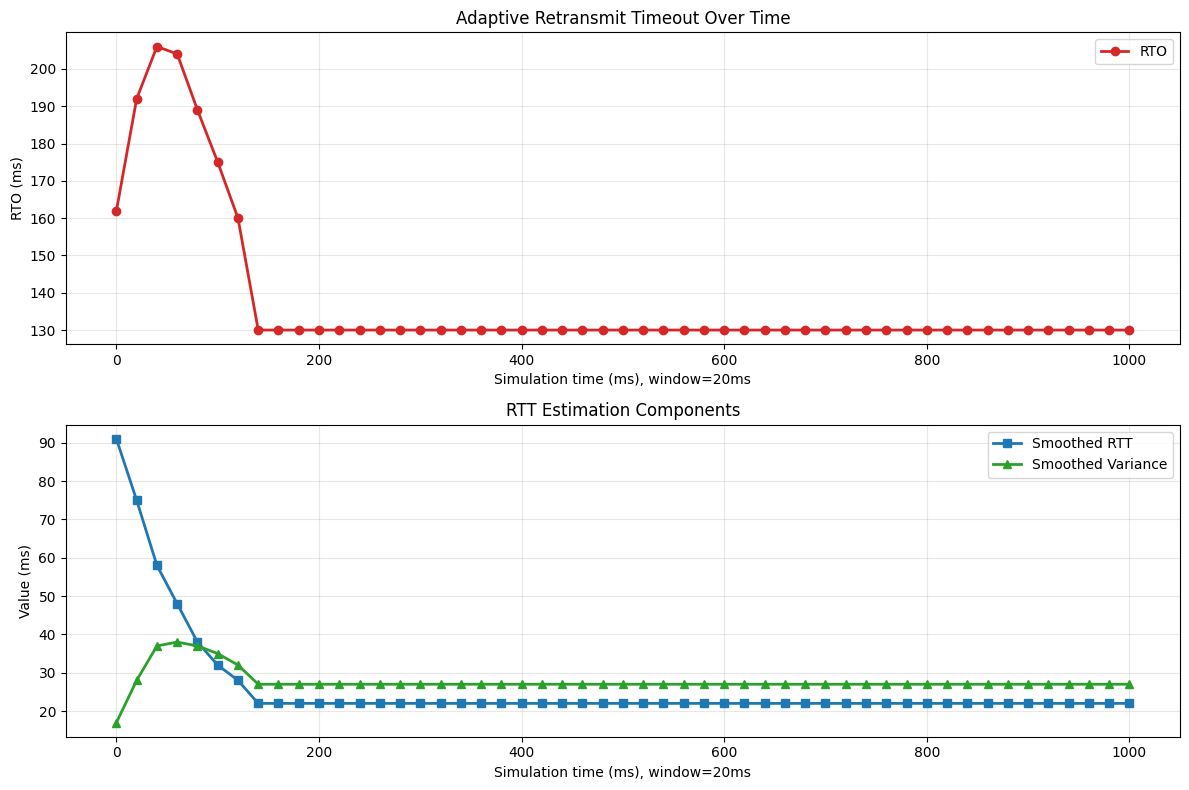
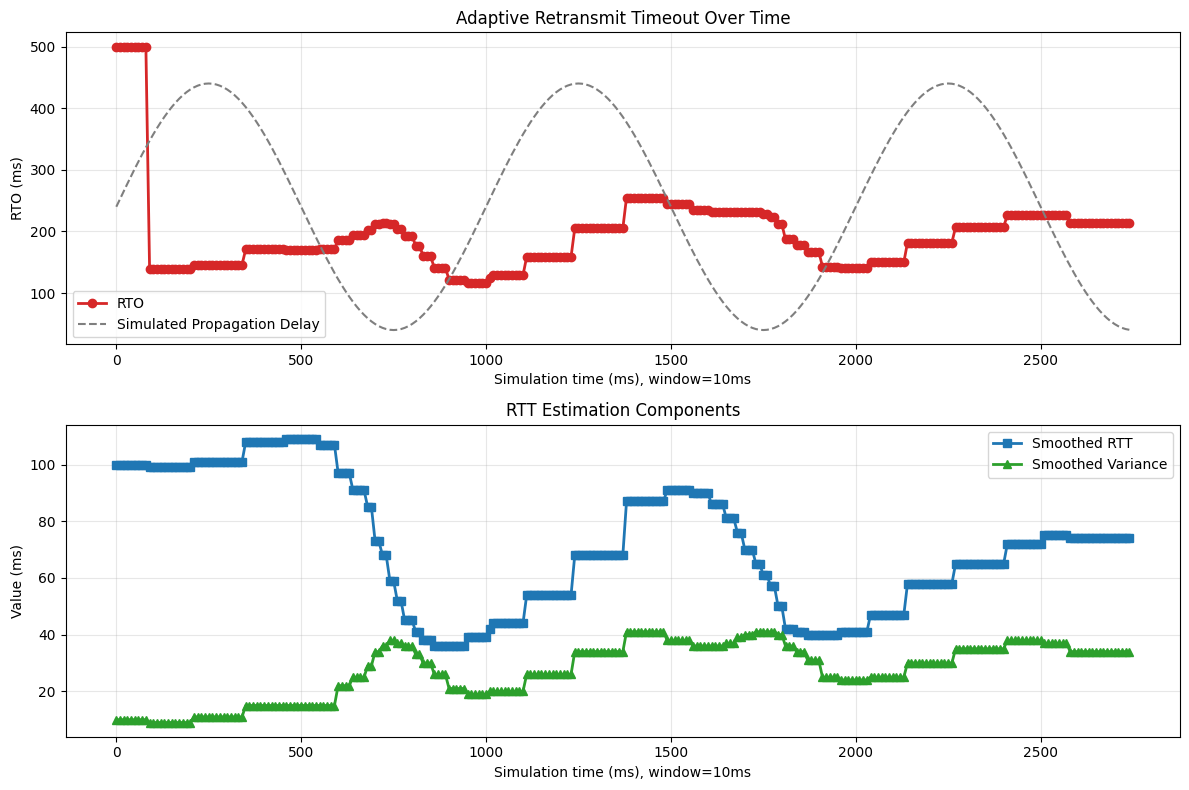
propagation delay function, plotted delay function

diff --git a/protocol/adaptive_timeout/example_entry.py b/protocol/adaptive_timeout/example_entry.py
@@ -1,6 +1,7 @@
 from __future__ import annotations
 
 from pathlib import Path
+import numpy as np
 import sys
 
 PROJECT_ROOT = Path(__file__).resolve().parents[2]
@@ -29,10 +30,34 @@ def main():
         b"This should be reconstructed exactly at the client."
         b"0000000000000000000000000000000000000000000000000000"
         b"0000000000000000000000000000000000000000000000000000"
+                b"Adaptive-timeout SACK demo payload. "
+        b"This should be reconstructed exactly at the client."
+        b"0000000000000000000000000000000000000000000000000000"
+        b"0000000000000000000000000000000000000000000000000000"
+                b"Adaptive-timeout SACK demo payload. "
+        b"This should be reconstructed exactly at the client."
+        b"0000000000000000000000000000000000000000000000000000"
+        b"0000000000000000000000000000000000000000000000000000"
+                b"Adaptive-timeout SACK demo payload. "
+        b"This should be reconstructed exactly at the client."
+        b"0000000000000000000000000000000000000000000000000000"
+        b"0000000000000000000000000000000000000000000000000000"
+                b"Adaptive-timeout SACK demo payload. "
+        b"This should be reconstructed exactly at the client."
+        b"0000000000000000000000000000000000000000000000000000"
+        b"0000000000000000000000000000000000000000000000000000"
+                b"Adaptive-timeout SACK demo payload. "
+        b"This should be reconstructed exactly at the client."
+        b"0000000000000000000000000000000000000000000000000000"
+        b"0000000000000000000000000000000000000000000000000000"
+                b"Adaptive-timeout SACK demo payload. "
+        b"This should be reconstructed exactly at the client."
+        b"0000000000000000000000000000000000000000000000000000"
+        b"0000000000000000000000000000000000000000000000000000"
     )
 
     seq_space = 1001
-    snapshot_interval = 20
+    snapshot_interval = 10
 
     sim = NetworkSim(seed=9, logging=False, track_analytics=True, snapshot_interval=snapshot_interval)
     network = Network(sim)
@@ -46,7 +71,7 @@ def main():
         retransmit_timeout=1000,
         seq_space=seq_space,
         min_rto=10,
-        max_rto=10000,
+        max_rto=500,
     )
     client = ATClient(
         name=2,
@@ -64,7 +89,8 @@ def main():
         propagation_delay=5,
         delay_variance=0,
         error_rate=0,
-        max_queue_length=100
+        max_queue_length=100,
+        propagation_delay_fn=lambda x: np.sin(x*2*np.pi*(1/1000))*30+ 40,
     )
     network.add_channel(channel)
     channel.add_node(server)

diff --git a/src/channel.py b/src/channel.py
@@ -2,7 +2,7 @@
 from __future__ import annotations
 
 from collections import deque
-from typing import TYPE_CHECKING
+from typing import TYPE_CHECKING, Callable
 
 from . import packet as pkt
 
@@ -19,7 +19,8 @@ class Channel:
                propagation_delay=100, 
                error_rate=0, 
                average_error=0, 
-               delay_variance=0):
+               delay_variance=0,
+               propagation_delay_fn: Callable[[int], int | float] | None = None):
     self._network: Network | None = None
     self.nodes: dict[int, Node] = {}
     self.packet_queue = deque()
@@ -27,6 +28,7 @@ class Channel:
     self.next_transmit_time = 0
     self.bit_rate = bit_rate
     self.propagation_delay = propagation_delay
+    self.propagation_delay_fn = propagation_delay_fn
     self.error_rate = error_rate
     self.average_error = average_error
     self.delay_variance = delay_variance
@@ -77,10 +79,18 @@ class Channel:
     if len(self.packet_queue) == 0:
       return
     packet_bytes = self.packet_queue.popleft()
-    final_prop_delay = self.propagation_delay + round(abs(self.network.gauss(0, self.delay_variance)))
+    base_delay = self._resolve_propagation_delay()
+    final_prop_delay = base_delay + round(abs(self.network.gauss(0, self.delay_variance)))
     self.network.schedule_after(final_prop_delay, self.handle_receive_packet, packet_bytes)
     if len(self.packet_queue) > 0:
       self.network.schedule_after(0, self.handle_start_transmit)
+
+  def _resolve_propagation_delay(self) -> int:
+    if self.propagation_delay_fn is None:
+      return max(0, int(self.propagation_delay))
+
+    delay_value = self.propagation_delay_fn(int(self.network.sim.time))
+    return max(0, int(round(delay_value)))
 
   def handle_receive_packet(self, packet_bytes: bytes):
     packet_bytes = self._inject_byte_errors(packet_bytes)

diff --git a/protocol/adaptive_timeout/rto_plot.py b/protocol/adaptive_timeout/rto_plot.py
@@ -66,6 +66,7 @@ def plot_rto_adaptation(
 
     # Plot 1: Retransmit Timeout over time
     ax1.plot(x, rto_values, marker="o", linewidth=2, color="tab:red", label="RTO")
+    ax1.plot(x, 4*(np.sin(np.array(x)*2*np.pi*(1/1000))*50 + 60), linestyle="--", color="tab:gray", label="Simulated Propagation Delay")
     ax1.set_title("Adaptive Retransmit Timeout Over Time")
     ax1.set_xlabel(f"Simulation time (ms), window={window_ms}ms")
     ax1.set_ylabel("RTO (ms)")
